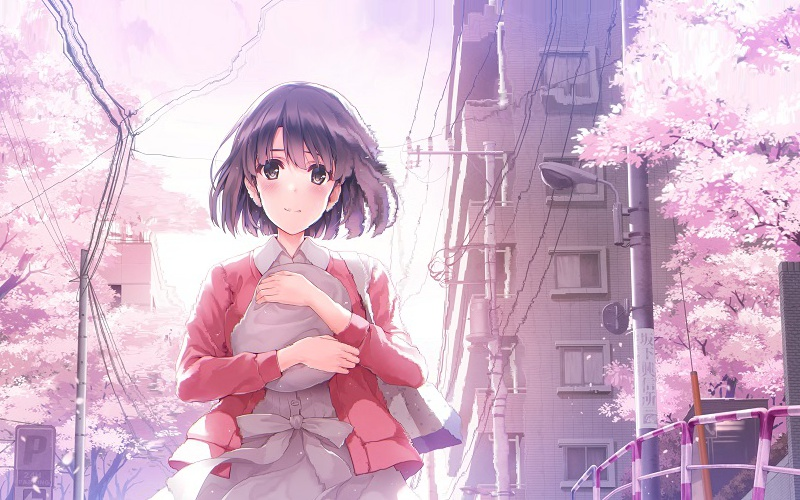
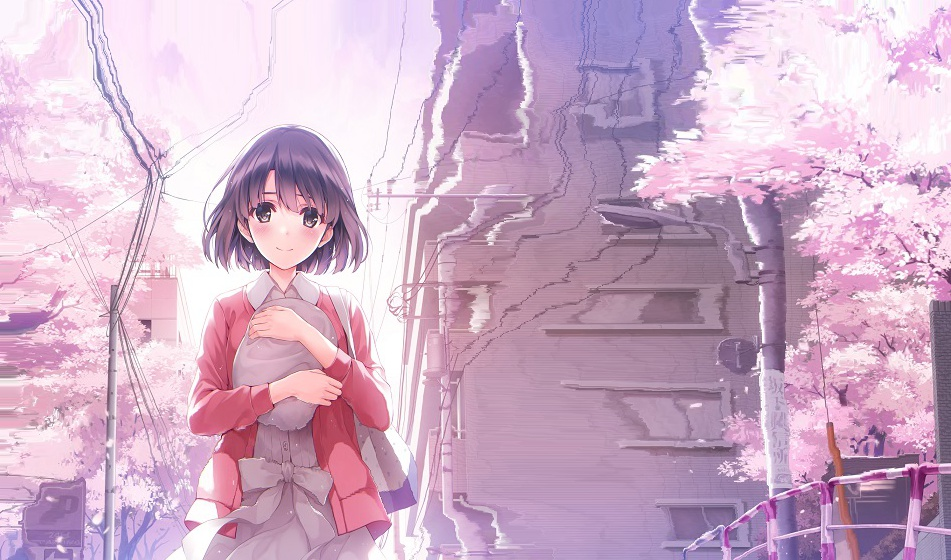
updata  吧

diff --git a/content-aware-resize.py b/content-aware-resize.py
@@ -1,0 +1,278 @@
+import cv2
+import numpy as np
+
+import sys
+import os
+import logging
+from datetime import datetime
+
+logging.basicConfig(
+    stream=sys.stdout,
+    format='%(asctime)s %(levelname)s:%(message)s',
+    level=logging.INFO,
+    datefmt='%I:%M:%S')
+
+def gaussian_blur(img):
+    return cv2.GaussianBlur(img, (3, 3), 0, 0)
+
+def x_gradient(img):
+    '''
+    Sobel filter: used for computing the gradient, more resistant to noise
+    (img, img's depth, compute dx?, computer dy?, kernel size, ...)
+    '''
+    return cv2.Sobel(img, cv2.CV_64F, 1, 0, ksize=3, scale=1, delta=0, borderType=cv2.BORDER_DEFAULT)
+
+
+def y_gradient(img):
+    return cv2.Sobel(img, cv2.CV_64F, 0, 1, ksize=3,
+                     scale=1, delta=0, borderType=cv2.BORDER_DEFAULT)
+
+# computer energy function
+def energy(img):
+    blurred = gaussian_blur(img)
+    gray = cv2.cvtColor(blurred, cv2.COLOR_BGR2GRAY)
+    dx = x_gradient(gray)
+    dy = y_gradient(gray)
+    # final energy = x_grad + y_grad
+    return cv2.add(np.absolute(dx), np.absolute(dy))
+
+def calc_optimum_dynamics(energies):
+    h, w = energies.shape[:2]
+    dynamics = np.zeros((h, w)) # dynamics's shape [502 ,750]
+
+    for i in range(0, w): # 0, 1, ..., w-1
+        dynamics[h - 1, i] = energies[h - 1, i]
+    
+    for curr_row in range(h -2, -1, -1): # h-2, h-1, ..., 0
+        for curr_col in range(0, w): # 0, 1, ..., w-1
+            curr_min = dynamics[curr_row + 1, curr_col] + energies[curr_row + 1, curr_col]
+
+            for delta in range(-1, 3, 2): # -1, 1
+                if delta + curr_col < w and delta + curr_col >= 0:
+                    val_to_exam = dynamics[curr_row + 1, curr_col + delta] + energies[curr_row, curr_col]
+                    if (curr_min > val_to_exam) :
+                        curr_min = val_to_exam
+            dynamics[curr_row, curr_col] = curr_min
+    return dynamics
+
+def get_w(optimum_energies, seam_energies, i, j, row):
+    return seam_energies[row, i] * optimum_energies[row + 1, j]
+
+def calc_matches(energies, optimum_energies, seam_energies, row):
+    matches = np.zeros(energies.shape[1])
+    matches[0] = get_w(optimum_energies, seam_energies, 0, 0, row)
+    matches[1] = max(matches[0] + get_w(optimum_energies, seam_energies, 1, 1, row), get_w(optimum_energies, seam_energies, 0, 1, row) + get_w(optimum_energies, seam_energies, 1, 0, row))
+
+    for col in range(2, energies.shape[1]):
+        w1 = matches[col - 1] + get_w(optimum_energies, seam_energies, col, col, row)
+        w2 = matches[col - 2] + get_w(optimum_energies, seam_energies, col, col - 1, row) + get_w(optimum_energies, seam_energies, col - 1, col, row)
+        matches[col] = max(w1, w2)
+    return matches
+
+def increase_seams(energies, optimum_energies, matches, seam_energies, seams, row):
+    x = energies.shape[1] - 1
+    while x >= 0:
+        last_match = 0
+        if x != 0:
+            last_match = matches[x - 1]
+
+        if matches[x] == last_match + get_w(optimum_energies, seam_energies, x, x, row):
+            seams[x].append(x)
+            seam_energies[row + 1, x] = seam_energies[row, x] + energies[row + 1, x]
+            x = x - 1
+        else:
+            seams[x - 1].append(x)
+            seams[x].append(x - 1)
+            
+            temp = seams[x]
+            seams[x] = seams[x - 1]
+            seams[x - 1] = temp
+
+            seam_energies[row + 1, x - 1] = seam_energies[row, x] + energies[row + 1, x - 1]
+            seam_energies[row + 1, x] = seam_energies[row, x - 1] + energies[row + 1, x]
+
+            x = x - 2
+
+    return  seam_energies, seams
+
+def get_seams(img, delta):
+    print("start resizing")
+
+    # Get the energy of each pixel
+    energies = energy(img) # energies's shape [502, 750]
+
+    # Create and compute the DP form
+    optimum_energies = calc_optimum_dynamics(energies) # optimum_energies's shape [502, 750]
+
+    # print("optimum_energies: shape[" , optimum_energies.shape[:2], "]\n", optimum_energies)
+
+    # Initial the seams list
+    seams = [] # seams's shape [750, 502]
+    for i in range(0, energies.shape[1]):
+        seams.append([])
+    
+    seam_energies = np.zeros((img.shape[0], img.shape[1])) # seams_energies's shape [502, 750]
+
+    for i in range(0, energies.shape[1]):
+        seam_energies[0, i] = energies[0, i]
+        seams[i].append(i)
+
+    # print("seam_energies\n", seam_energies)
+    # print("seams: shape[", np.shape(seams), "]\n", seams)
+    
+    # Get seams by making bipartite matching
+    for row in range(0, energies.shape[0] - 1):
+        matches = calc_matches(energies, optimum_energies, seam_energies, row)
+        seam_energies, seams = increase_seams(energies, optimum_energies, matches, seam_energies, seams, row)
+    
+    # print("seam_energies\n", seam_energies)
+    # print("seams: shape[", np.shape(seams), "]\n", seams[0])
+    weighted_seams = []
+
+    # To sort the seams by its weight
+    for i in range(0, energies.shape[1]):
+        weighted_seams.append((seam_energies[energies.shape[0] - 1, i], seams[i]))
+
+    # for i in range(0, energies.shape[1]):
+    #         print("weighted_seams\n", weighted_seams[i][0])
+
+    weighted_seams = sorted(weighted_seams, key=lambda weighted_seams: weighted_seams[0])
+
+    # for i in range(0, energies.shape[1]):
+    #     print("weighted_seams\n", weighted_seams[i][0])
+
+    res = []
+
+    for i in range(0, delta):
+        res.append(weighted_seams[i][1])
+
+    return res
+
+def process_seams(img, seams, delete_mode):
+    print("Process image...")
+    if delete_mode:
+        w_delta = np.shape(seams)[0] * -1
+    else:
+        w_delta = np.shape(seams)[0] * 1
+    print("w_delta ", w_delta)
+    out = np.zeros((np.shape(img)[0], np.shape(img)[1] + w_delta, 3), np.uint8)
+
+    for row in range(0, np.shape(img)[0]):
+        pool = []
+        for seam in seams:
+            pool.append(seam[np.shape(img)[0] - row - 1])
+
+        pool.sort()
+
+        delta = 0
+        curr_pix = 0
+        for col in range(0, np.shape(img)[1]):
+            if curr_pix < np.shape(pool)[0] and col == pool[curr_pix]:
+                curr_pix = curr_pix + 1
+                if delete_mode:
+                    delta = delta - 1
+                else:
+                    delta = delta + 1
+
+                if delete_mode:
+                    continue
+
+                out[row, col + delta - 1, :] = img[row, col, :]
+            
+            out[row, col + delta, :] = img[row, col, :]
+    
+    print("Process image done")
+    return out
+
+def _resize_width(img, delta):
+    if delta == 0:
+        print("This side's delta is 0, so do nothing")
+        return img
+    # Start to resizing
+    seams = get_seams(img, abs(delta))
+    return process_seams(img, seams, delta < 0)
+
+def resize(img, width=None, height=None):
+    result = np.copy(img) # img's shape [502, 750]
+
+    # Get original image width and height
+    origin_img_height, origin_img_width = img.shape[:2]
+
+    # Compute the scaling of width and height
+    w_delta = width - origin_img_width
+    h_delta = height - origin_img_height
+    if w_delta < 0:
+        w_delta = min(abs(w_delta), origin_img_width) * -1
+    else:
+        w_delta = min(abs(w_delta), origin_img_width) * 1
+       
+    if h_delta < 0:
+        h_delta = min(abs(h_delta), origin_img_height) * -1
+    else:
+        h_delta = min(abs(h_delta), origin_img_height) * 1
+
+    print("w_delta: " + str(w_delta) + ", h_delta: " + str(h_delta))
+
+    # We do not transpose the result to make one orientaiton (row or col) calculation 
+
+    print("From (" + str(origin_img_height)  + "," + str(origin_img_width) + ")" + " resize to (" + str(height) + "," + str(width) + ")")
+
+    # Start to resizing
+    print("Resizing one side")
+
+    result = _resize_width(result, w_delta)
+
+    print("Resizing another side")
+   
+    h, w, d = np.shape(result)
+    temp_result = np.zeros((w, h, d), np.uint8)
+    temp_result[:, :, 0] = result[:, :, 0].transpose()
+    temp_result[:, :, 1] = result[:, :, 1].transpose()
+    temp_result[:, :, 2] = result[:, :, 2].transpose()
+
+    print(np.shape(result), " transpose to ", np.shape(temp_result))
+
+    temp_result = _resize_width(temp_result, h_delta)
+
+    h, w, d = np.shape(temp_result)
+    result = np.zeros((w, h, d), np.uint8)
+    result[:, :, 0] = temp_result[:, :, 0].transpose()
+    result[:, :, 1] = temp_result[:, :, 1].transpose()
+    result[:, :, 2] = temp_result[:, :, 2].transpose()
+
+    # give output image name
+    name = sys.argv[1][:-3] + '_content_aware_resize.jpg'
+    cv2.imwrite(name, result)
+    # show the computing time
+    logging.info("Processing took %f sec" % ((datetime.now() - start_time).total_seconds()))
+    
+    print ('Press any key to close the window.')
+
+    cv2.imshow('seam', result)
+    cv2.waitKey(0)
+    cv2.destroyAllWindows()
+
+    
+
+def usage(program_name):
+    '''Usage: python {} image [--interactive] [new_width new_height]
+
+    --interactive        After starting the program, click in the window to pick
+                         the height and width to resize to. Once you've made
+                         your final selection, press any key to start the seam
+                         carving process.
+    new_width            The width to resize the image to.
+    new_height           The height to resize the image to.
+    '''
+    #print (''.format(program_name))
+
+if __name__ == '__main__':
+    img = cv2.imread(sys.argv[1])
+    logging.info("Processing image")
+    start_time = datetime.now()
+    if len(sys.argv) == 4:
+        resize(img, int(sys.argv[2]), int(sys.argv[3]))
+    else:
+        usage(sys.argv[0])
+        sys.exit(1)
+    

diff --git a/seamcarve.py b/seamcarve.py
@@ -428,6 +428,7 @@ def resize(img, width=None, height=None, interactive=False):
                 draw_seam(result, seam, interactive=interactive)
             result = remove_horizontal_seam(result, seam)
             mask = remove_horizontal_mask(mask, seam)
+        logging.info("算完horizontal carve")
     # enlarge the image
     else:
         dy *= -1
